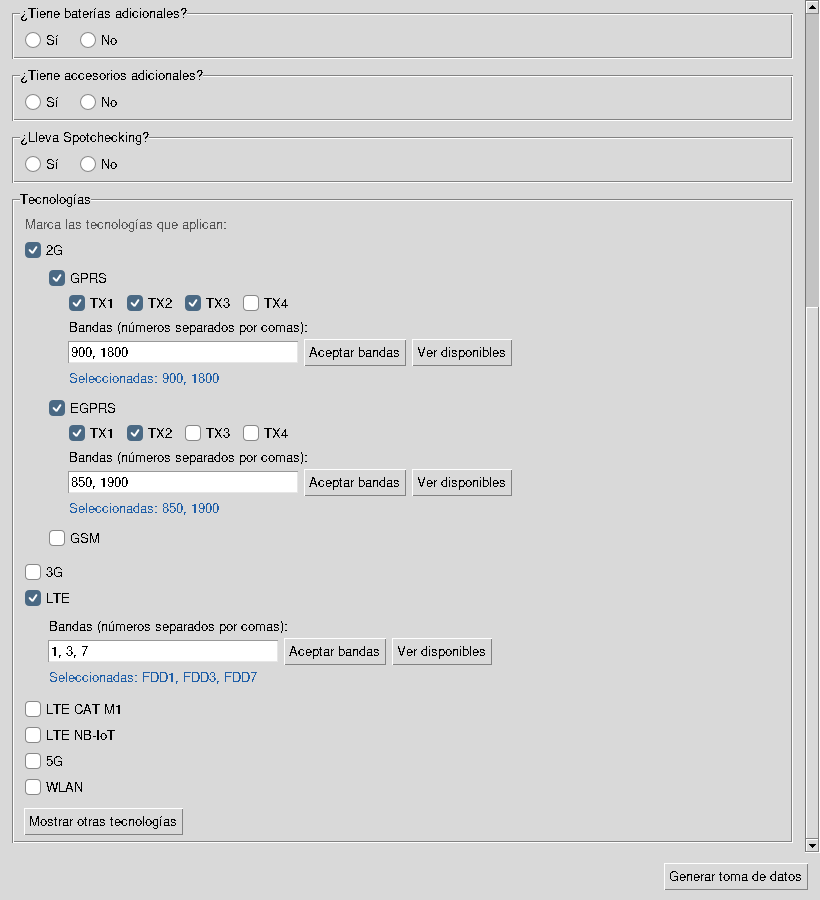
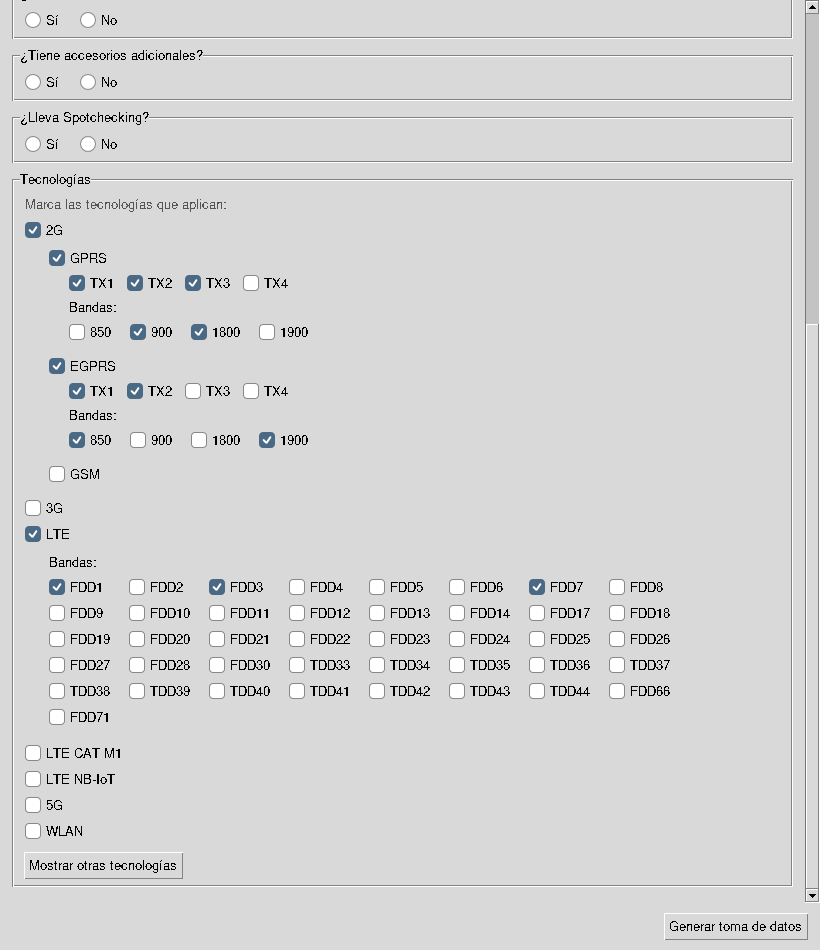
Mostrar las opciones de bandas como casillas bajo cada tecnología

Changed region(s): [[0.0, 0.0, 0.9756, 0.9333], [0.6402, 0.5911, 0.8232, 0.7467], [0.7927, 0.9333, 1.0, 0.9956]]

diff --git a/formulario_bd.py b/formulario_bd.py
@@ -1,73 +1,89 @@
-"""Formulario compacto: opciones habituales y bandas escritas por números."""
+"""Formulario con opciones de banda visibles bajo cada tecnología."""
 import tkinter as tk
 from tkinter import ttk
-from entradas_bandas import resolver_bandas, banda_base_5g
+from entradas_bandas import banda_base_5g
 from opciones_ensayo import slots_incluidos
 from configuracion import OPCIONES_2G, OPCIONES_3G, VARIANTES_5G
 
 
-class EntradaBandas(ttk.Frame):
+class SelectorBandas(ttk.Frame):
+    """Casillas visibles y repartidas en filas según el espacio disponible."""
     def __init__(self, master, nombre, disponibles):
         super().__init__(master, padding=(0, 4))
-        self.nombre, self.disponibles = nombre, list(dict.fromkeys(disponibles))
-        self.aceptadas = []
-        self.texto = tk.StringVar()
-        self.al_aceptar = None
-        ttk.Label(self, text='Bandas (números separados por comas):').pack(anchor='w')
-        row = ttk.Frame(self)
-        row.pack(fill='x', pady=(3, 0))
-        self.entry = ttk.Entry(row, textvariable=self.texto, width=32)
-        self.entry.pack(side='left')
-        self.entry.bind('<Return>', lambda _: self.aceptar())
-        ttk.Button(row, text='Aceptar bandas', command=self.aceptar).pack(side='left', padx=6)
-        ttk.Button(row, text='Ver disponibles', command=self._ver_disponibles).pack(side='left')
-        self.ayuda = ttk.Label(self, text=', '.join(self.disponibles) or 'La base no contiene bandas para esta opción.',
-                               foreground='#555555', wraplength=570)
-        self.estado = ttk.Label(self, foreground='#1F5FA8', wraplength=570)
-        self.estado.pack(anchor='w', pady=(3, 0))
+        self.nombre = nombre
+        self.al_cambiar = None
+        self.variables, self.casillas = {}, {}
+        self.no_disponibles = []
+        ttk.Label(self, text='Bandas:').pack(anchor='w')
+        self.opciones = ttk.Frame(self)
+        self.opciones.pack(fill='x', pady=(3, 0))
+        self.opciones.bind('<Configure>', self._distribuir)
+        self.estado = ttk.Label(self, foreground='#B00020', wraplength=570)
+        self.actualizar(disponibles)
 
-    def _ver_disponibles(self):
-        if self.ayuda.winfo_manager():
-            self.ayuda.pack_forget()
+    def _distribuir(self, _evento=None):
+        width = self.opciones.winfo_width()
+        if width <= 1:
+            width = 550
+        cell_width = max((c.winfo_reqwidth() + 16 for c in self.casillas.values()), default=1)
+        columns = max(1, width // cell_width)
+        for index, check in enumerate(self.casillas.values()):
+            check.grid(row=index // columns, column=index % columns,
+                       sticky='w', padx=(0, 16), pady=2)
+
+    def _aviso(self):
+        if self.no_disponibles:
+            self.estado.configure(text='Bandas no disponibles: ' + ', '.join(self.no_disponibles) +
+                                  '. Elige de nuevo entre las opciones mostradas.')
+            self.estado.pack(anchor='w', pady=(3, 0))
+        elif not self.disponibles:
+            self.estado.configure(text='La base no contiene bandas para esta opción.')
+            self.estado.pack(anchor='w', pady=(3, 0))
         else:
-            self.ayuda.pack(anchor='w', pady=(4, 0), before=self.estado)
+            self.estado.pack_forget()
 
     def actualizar(self, disponibles):
+        selected = self.seleccion() + self.no_disponibles
         self.disponibles = list(dict.fromkeys(disponibles))
-        self.ayuda.configure(text=', '.join(self.disponibles) or 'La base no contiene bandas para esta opción.')
+        for child in self.opciones.winfo_children():
+            child.destroy()
+        self.variables, self.casillas = {}, {}
+        for band in self.disponibles:
+            variable = self.variables[band] = tk.BooleanVar(self, value=band in selected)
+            self.casillas[band] = ttk.Checkbutton(self.opciones, text=band, variable=variable,
+                                                 command=self._cambiar)
+        self.no_disponibles = [b for b in selected if b not in self.variables]
+        self._distribuir()
+        self._aviso()
 
-    def aceptar(self):
-        try:
-            bands = resolver_bandas(self.texto.get(), self.disponibles)
-        except ValueError as exc:
-            self.estado.configure(text=str(exc), foreground='#B00020')
-            return False
-        self.aceptadas = bands
-        self.estado.configure(text='Seleccionadas: ' + ', '.join(bands), foreground='#1F5FA8')
-        if self.al_aceptar:
-            self.al_aceptar()
-        return True
+    def _cambiar(self):
+        self.no_disponibles = []
+        self._aviso()
+        if self.al_cambiar:
+            self.al_cambiar()
 
     def seleccion(self):
-        return list(self.aceptadas)
+        return [b for b, v in self.variables.items() if v.get()]
 
     def validar(self):
-        try:
-            bands = resolver_bandas(self.texto.get(), self.disponibles)
-        except ValueError as exc:
-            return [f'{self.nombre}: {exc}']
-        return [] if bands == self.aceptadas else [f'{self.nombre}: pulsa «Aceptar bandas» para confirmar los cambios.']
+        if self.no_disponibles:
+            return [f'{self.nombre}: bandas no disponibles: ' + ', '.join(self.no_disponibles) + '.']
+        return [] if self.seleccion() else [f'{self.nombre}: selecciona al menos una banda.']
 
     def cargar(self, bands):
-        self.texto.set(', '.join(bands))
-        self.aceptar()
+        for band, variable in self.variables.items():
+            variable.set(band in bands)
+        self.no_disponibles = [b for b in bands if b not in self.variables]
+        self._aviso()
+        if self.al_cambiar:
+            self.al_cambiar()
 
 
 class PanelCatalogo(ttk.Frame):
     def __init__(self, master, nombre, catalogo, tech=None):
         super().__init__(master, padding=(24, 4))
         self.nombre, self.tech = nombre, tech or nombre
-        self.entrada = EntradaBandas(self, nombre, catalogo.bandas(self.tech))
+        self.entrada = SelectorBandas(self, nombre, catalogo.bandas(self.tech))
         self.entrada.pack(fill='x')
         self.modos_guardados = []
         self.lbl_modos = ttk.Label(self, foreground='#555555', wraplength=570)
@@ -108,7 +124,7 @@ class Panel5GCatalogo(PanelCatalogo):
         self.variables = {b: tk.BooleanVar() for b in available}
         self.marco_variantes = ttk.Frame(self)
         self.marco_variantes.pack(fill='x')
-        self.entrada.al_aceptar = self._pintar_variantes
+        self.entrada.al_cambiar = self._pintar_variantes
 
     def _pintar_variantes(self):
         for child in self.marco_variantes.winfo_children():
@@ -173,7 +189,7 @@ class Panel2GCatalogo(ttk.Frame):
                 for slot, variable in self.slots[mode].items():
                     ttk.Checkbutton(row, text=slot, variable=variable,
                         command=lambda m=mode, s=slot: self._cambiar(m, s)).pack(side='left', padx=(0, 10))
-            self.bandas_modo[mode] = EntradaBandas(detail, mode, self._disponibles(mode))
+            self.bandas_modo[mode] = SelectorBandas(detail, mode, self._disponibles(mode))
             self.bandas_modo[mode].pack(fill='x')
 
     def _disponibles(self, mode):

diff --git a/tests/test_interfaz_bandas.py b/tests/test_interfaz_bandas.py
@@ -1,4 +1,4 @@
-"""Entrada compacta, bandas 2G independientes y compatibilidad de respuestas."""
+"""Casillas de bandas visibles, selección 2G independiente y carga de respuestas."""
 import os
 from pathlib import Path
 import tempfile
@@ -73,8 +73,7 @@ class InterfazRealTests(unittest.TestCase):
                 p._mostrar(mode)
                 p.slots[mode][slot].set(True)
                 p._cambiar(mode, slot)
-                p.bandas_modo[mode].texto.set(band)
-                self.assertTrue(p.bandas_modo[mode].aceptar())
+                p.bandas_modo[mode].casillas[band].invoke()
             self.root.update()
             self.assertFalse(p.detalles['GSM'].winfo_ismapped())
             self.assertTrue(p.detalles['GPRS'].winfo_ismapped())
@@ -100,14 +99,18 @@ class InterfazRealTests(unittest.TestCase):
         five = Panel5GCatalogo(self.root, '5G', self.catalogo)
         three = Panel3GCatalogo(self.root, '3G', self.catalogo)
         try:
-            lte.entrada.texto.set('1, 3, 7')
-            self.assertTrue(lte.entrada.aceptar())
+            lte.pack(fill='x')
+            self.root.update()
+            for band in ['FDD1', 'FDD3', 'FDD7']:
+                self.assertTrue(lte.entrada.casillas[band].winfo_ismapped())
+                lte.entrada.casillas[band].invoke()
             self.assertEqual(lte.seleccion(), ['FDD1', 'FDD3', 'FDD7'])
-            lte.entrada.texto.set('1, 3')
-            self.assertTrue(lte.validar())  # Hay cambios sin confirmar.
-            self.assertFalse(lte.entrada.ayuda.winfo_manager())
-            five.entrada.texto.set('77')
-            self.assertTrue(five.entrada.aceptar())
+            self.assertEqual(lte.validar(), [])  # Las casillas se aplican directamente.
+            lte.entrada.casillas['FDD7'].invoke()
+            self.assertEqual(lte.seleccion(), ['FDD1', 'FDD3'])
+            for check in lte.entrada.casillas.values():
+                self.assertLessEqual(check.winfo_x() + check.winfo_width(), lte.entrada.opciones.winfo_width())
+            five.entrada.casillas['n77'].invoke()
             self.assertTrue(five.validar())  # Hay que indicar la variante.
             five.variables['n77 part Q'].set(True)
             self.assertEqual(five.seleccion(), ['n77 part Q'])
@@ -117,6 +120,24 @@ class InterfazRealTests(unittest.TestCase):
             self.assertEqual(list(three.options), OPCIONES_3G)
         finally:
             lte.destroy(); five.destroy(); three.destroy()
+
+    def test_cambio_catalogo_y_respuestas_con_bandas_eliminadas(self):
+        from formulario_bd import SelectorBandas
+        bands = SelectorBandas(self.root, 'GPRS', ['850', '900', '1800'])
+        try:
+            self.assertTrue(bands.validar())
+            bands.cargar(['900', '1800'])
+            self.assertEqual(bands.validar(), [])
+            bands.actualizar(['850', '900'])
+            self.assertEqual(bands.seleccion(), ['900'])
+            self.assertTrue(bands.validar())  # No se descartan silenciosamente.
+            bands.casillas['850'].invoke()
+            self.assertEqual(bands.validar(), [])
+            bands.cargar(['1900'])
+            self.assertTrue(bands.validar())
+            self.assertIn('1900', bands.estado.cget('text'))
+        finally:
+            bands.destroy()
 
     def test_app_wlan_opciones_anteriores_y_otros_colapsados(self):
         from cuestionario_ensayo import App

diff --git a/USO_AUTOMATICO.md b/USO_AUTOMATICO.md
@@ -12,9 +12,9 @@ El programa usa dos elementos independientes: una base XLSX editable con los dat
 
 La base se vuelve a leer antes de generar. Si has cambiado un canal o frecuencia, la nueva salida usa el dato nuevo. Si has eliminado una banda seleccionada, la aplicación lo indica y conserva el Excel previo; no busca esa banda en las plantillas antiguas. **Recargar base** reconstruye las opciones del formulario con el contenido actual del archivo.
 
-Las opciones mantienen la organización anterior. Al marcar GPRS o EGPRS aparecen sus slots y justo debajo su entrada de bandas. GSM tiene su propia entrada. Escribe los números separados por comas y pulsa **Aceptar bandas**; **Ver disponibles** permite consultar el catálogo. Para LTE se admite `1, 3, 38` o las etiquetas completas; para 5G `77` o `n77`; para WCDMA `1` identifica FDDI. Si un número es ambiguo, se pide la etiqueta completa. Las variantes 5G aparecen después de aceptar sus bandas. WiFi conserva 2,4/5 GHz, modos y U-NII. Las opciones 3G siguen visibles; si una no tiene datos en la base elegida, se avisa en lugar de inventarlos.
+Las opciones mantienen la organización anterior. Al marcar GPRS o EGPRS aparecen sus slots y justo debajo las casillas de sus bandas. GSM tiene sus propias casillas. En las demás tecnologías, **Bandas** también muestra las opciones disponibles directamente. Marca todas las que correspondan; no hace falta escribir números ni confirmar la selección. Las casillas se reparten en filas según el espacio disponible. Las variantes 5G aparecen al marcar sus bandas. WiFi conserva 2,4/5 GHz, modos y U-NII. Las opciones 3G siguen visibles; si una no tiene datos en la base elegida, se avisa en lugar de inventarlos.
 
-Los JSON nuevos usan `tecnologias.2G.bandas_por_modo` para mantener bandas independientes de GSM, GPRS y EGPRS. Se siguen admitiendo las respuestas anteriores con una lista compartida `bandas`, que al cargar se aplica a cada modo activo. La edición de números requiere confirmarlos antes de generar; un cambio sin aceptar no reutiliza silenciosamente una selección anterior.
+Los JSON nuevos usan `tecnologias.2G.bandas_por_modo` para mantener bandas independientes de GSM, GPRS y EGPRS. Se siguen admitiendo las respuestas anteriores con una lista compartida `bandas`, que al cargar se aplica a cada modo activo. Si una banda guardada ya no existe en la base cargada, se muestra un aviso y hay que volver a seleccionar entre las opciones disponibles.
 
 El JSON guarda la ruta y el identificador de la base usada. Al cargarlo desde el formulario se utiliza la base que tengas elegida en ese momento; así puedes repetir una configuración con otra versión. Si mueves archivos a otro ordenador, elige primero su base allí. La CLI permite sustituir la referencia con `--base-datos`.
 

diff --git a/docs/revision_interfaz_bandas.md b/docs/revision_interfaz_bandas.md
@@ -1,7 +1,7 @@
 # Revisión del formulario de bandas
 
-- GPRS y EGPRS muestran sus bandas justo debajo de sus slots. GSM dispone de su propio campo. Las tres selecciones son independientes.
-- Las bandas se introducen mediante números separados por comas. Se comprueban contra la base cargada al pulsar **Aceptar bandas**. La lista completa solo se muestra al pulsar **Ver disponibles**.
+- GPRS y EGPRS muestran sus bandas justo debajo de sus slots. GSM dispone de sus propias opciones. Las tres selecciones son independientes.
+- Bajo **Bandas** aparecen directamente las casillas de las opciones disponibles en la base, distribuidas en filas según el espacio. La selección se aplica al marcar cada casilla.
 - Se conservan las opciones habituales de 3G, variantes 5G y modos WiFi. BT y Custom se agrupan bajo **Mostrar otras tecnologías**.
 - Los slots siguen siendo acumulativos. Se admiten los JSON anteriores con bandas 2G compartidas; los nuevos guardan `bandas_por_modo`.
 
@@ -9,6 +9,6 @@ No se han modificado los formatos ni las fórmulas de las hojas Excel en esta re
 
 ## Comprobación
 
-Se han superado 14 pruebas de selección, compatibilidad y generación desde la base de datos, incluida una exportación con bandas distintas para GSM, GPRS y EGPRS. También se han superado 3 pruebas con los widgets Tk reales en una pantalla virtual de Linux: posición de los campos, opciones anteriores y carga de respuestas. No se ha probado la apariencia en Windows.
+En esta revisión se comprueban la selección acumulativa 2G y una exportación con bandas distintas para GSM, GPRS y EGPRS. Las pruebas con widgets Tk reales en una pantalla virtual de Linux comprueban las casillas visibles, su colocación y distribución, variantes 5G, opciones WiFi y carga de respuestas con bandas eliminadas. No se ha probado la apariencia en Windows.
 
 Los resultados están en [pruebas_interfaz_bandas.txt](pruebas_interfaz_bandas.txt) y [pruebas_widgets.txt](pruebas_widgets.txt). La captura [interfaz_bandas.png](interfaz_bandas.png) corresponde a la aplicación ejecutada.

diff --git a/README.md b/README.md
@@ -13,7 +13,7 @@ Requiere Python 3.10 o posterior, con tkinter.
 5. Marca regiones, exposiciones, tecnologías y bandas. Las bandas proceden de la base cargada. GPRS y EGPRS conservan los slots acumulativos.
 6. Pulsa **Generar toma de datos**. Guarda los tres archivos que se crean juntos.
 
-Las bandas se escriben por números separados por comas y se confirman con **Aceptar bandas**: por ejemplo `900, 1800`, `1, 3, 7` para LTE o `77, 78` para 5G. **Ver disponibles** muestra las etiquetas válidas de la base sin llenar la pantalla de casillas. En 2G, GPRS, EGPRS y GSM tienen cada uno su propio campo de bandas; los slots de GPRS/EGPRS siguen siendo acumulativos. Las opciones habituales de 3G, variantes 5G y modos WiFi se conservan. BT y Custom quedan en **Mostrar otras tecnologías**.
+En **Bandas** aparecen directamente las opciones con casillas para marcar, distribuidas en filas según el ancho de la ventana. Puedes seleccionar varias sin escribir números ni pulsar un botón de confirmación. En 2G, las bandas de GPRS y EGPRS aparecen justo debajo de sus respectivos slots y GSM tiene sus propias bandas. Los slots siguen siendo acumulativos. Las opciones habituales de 3G, variantes 5G y modos WiFi se conservan. BT y Custom quedan en **Mostrar otras tecnologías**.
 
 [Vista de la interfaz](docs/interfaz_bandas.png)
 
